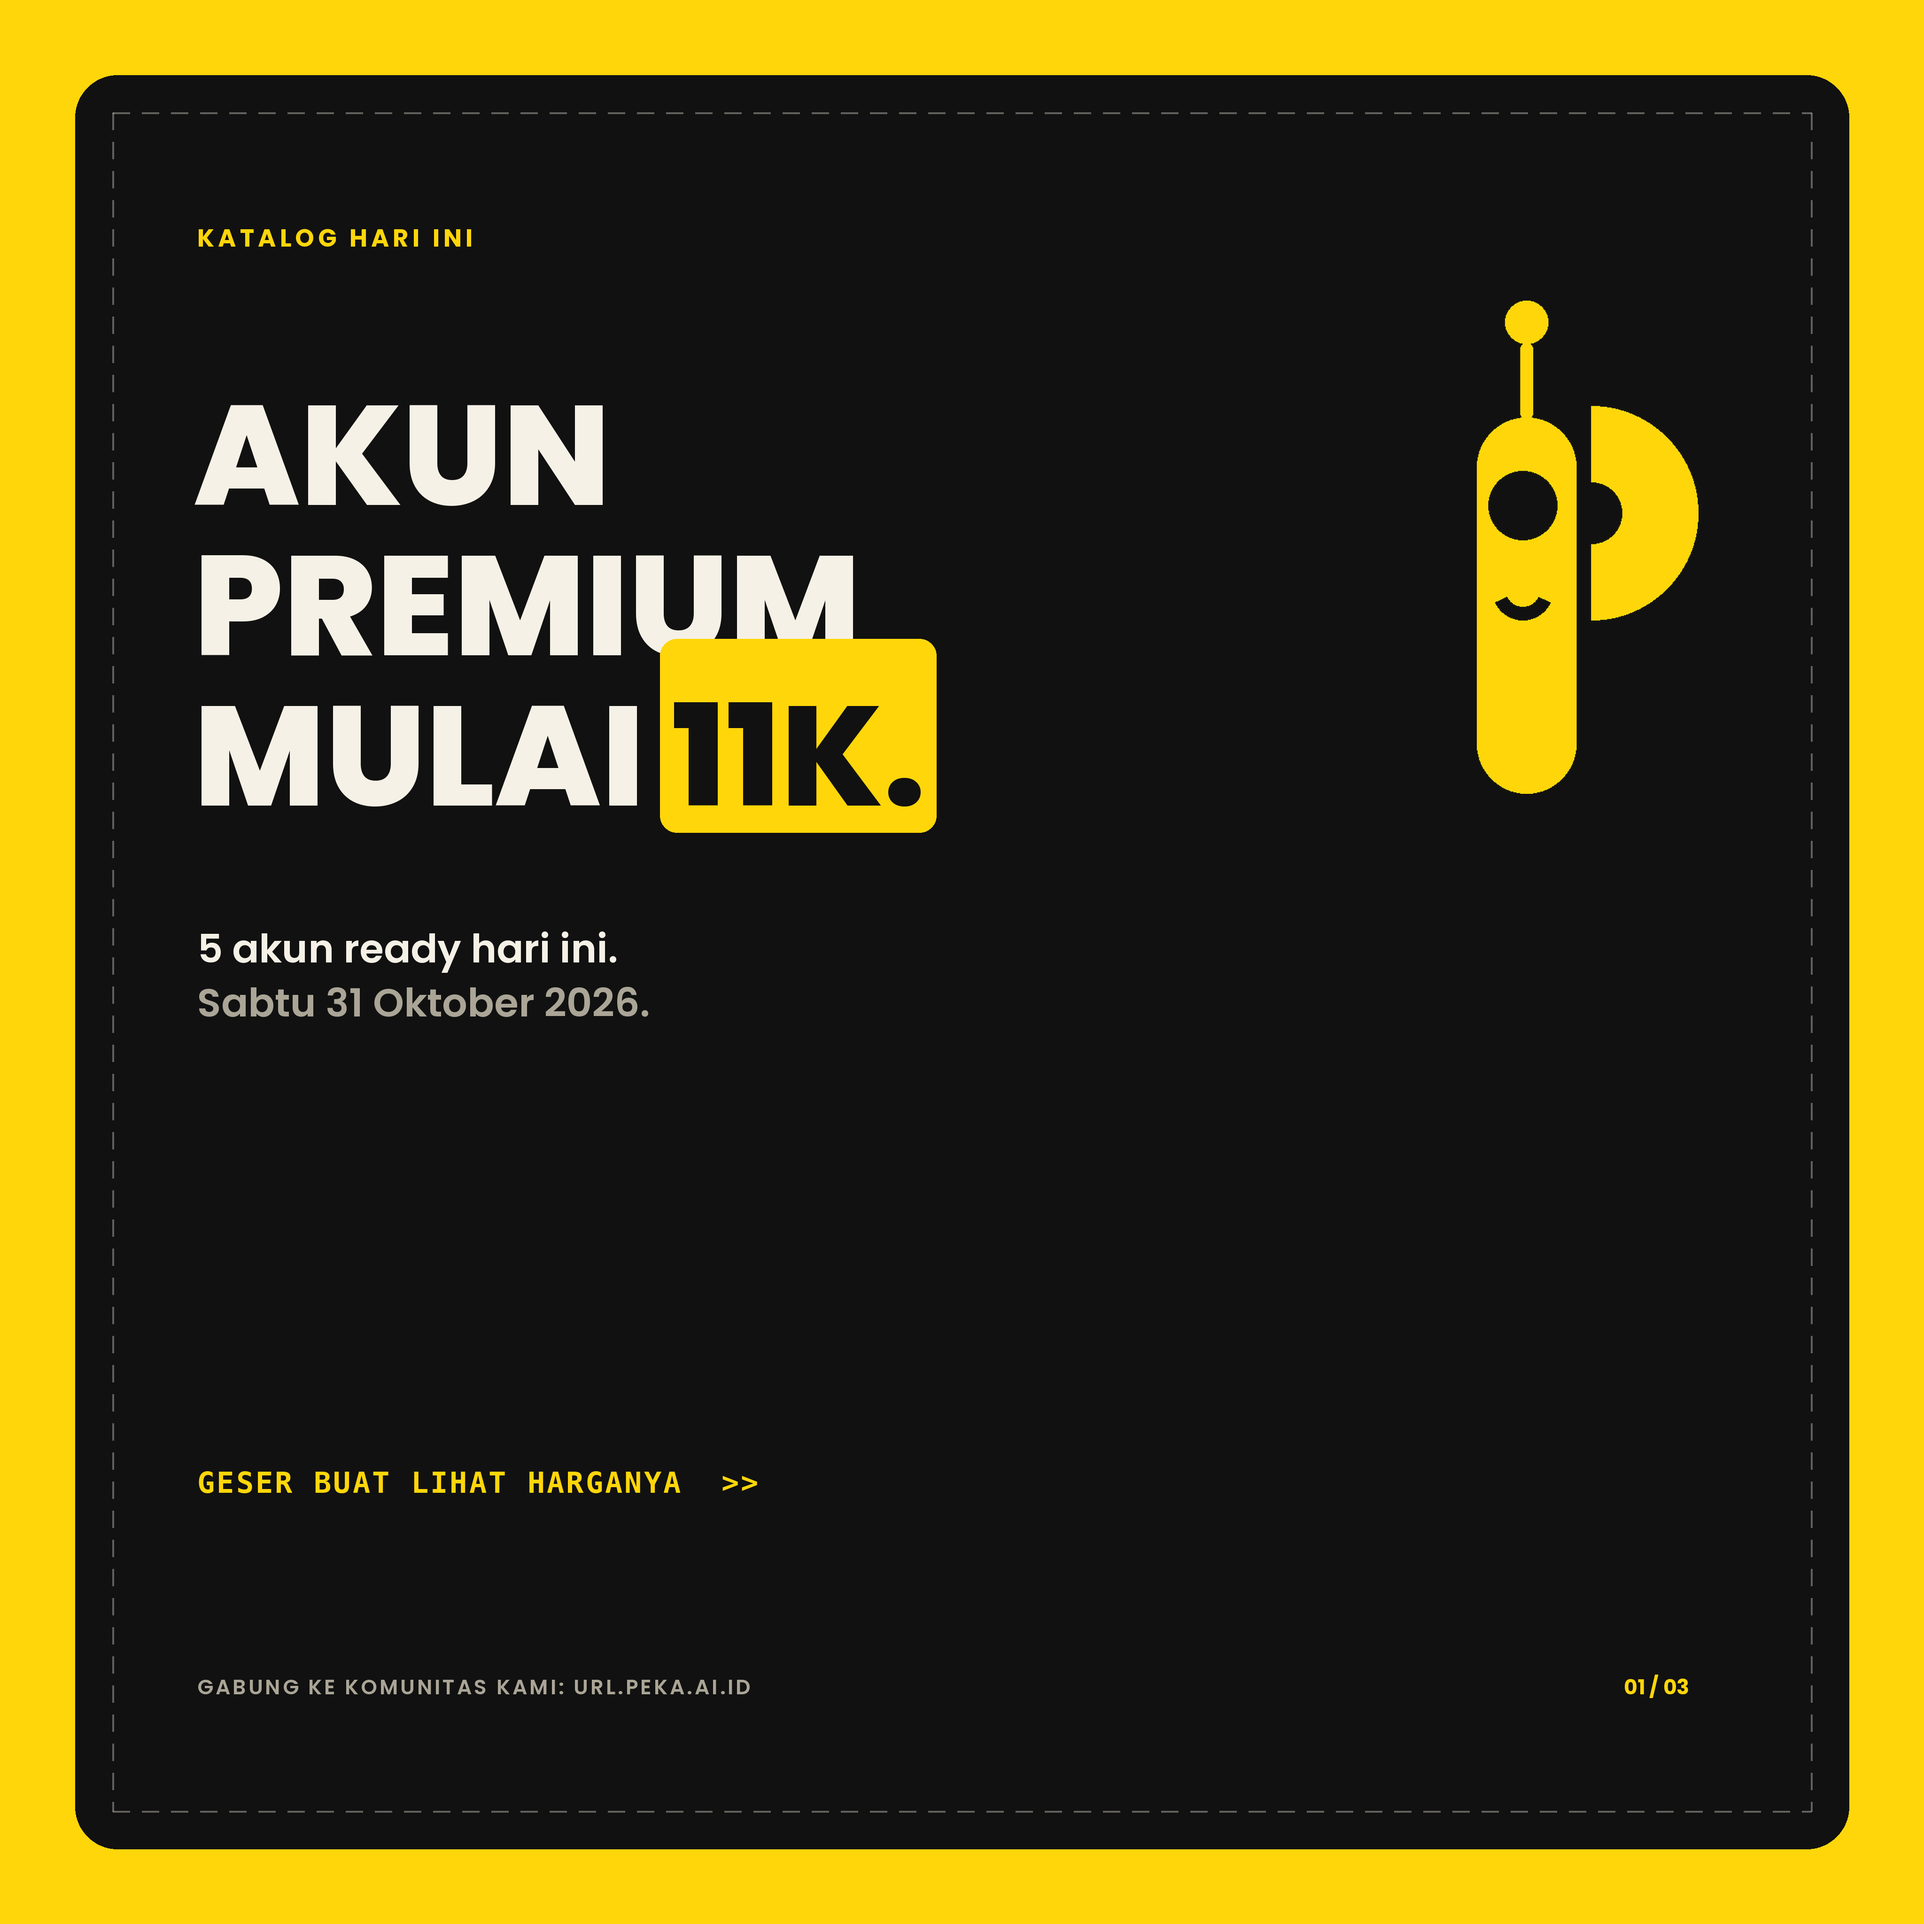
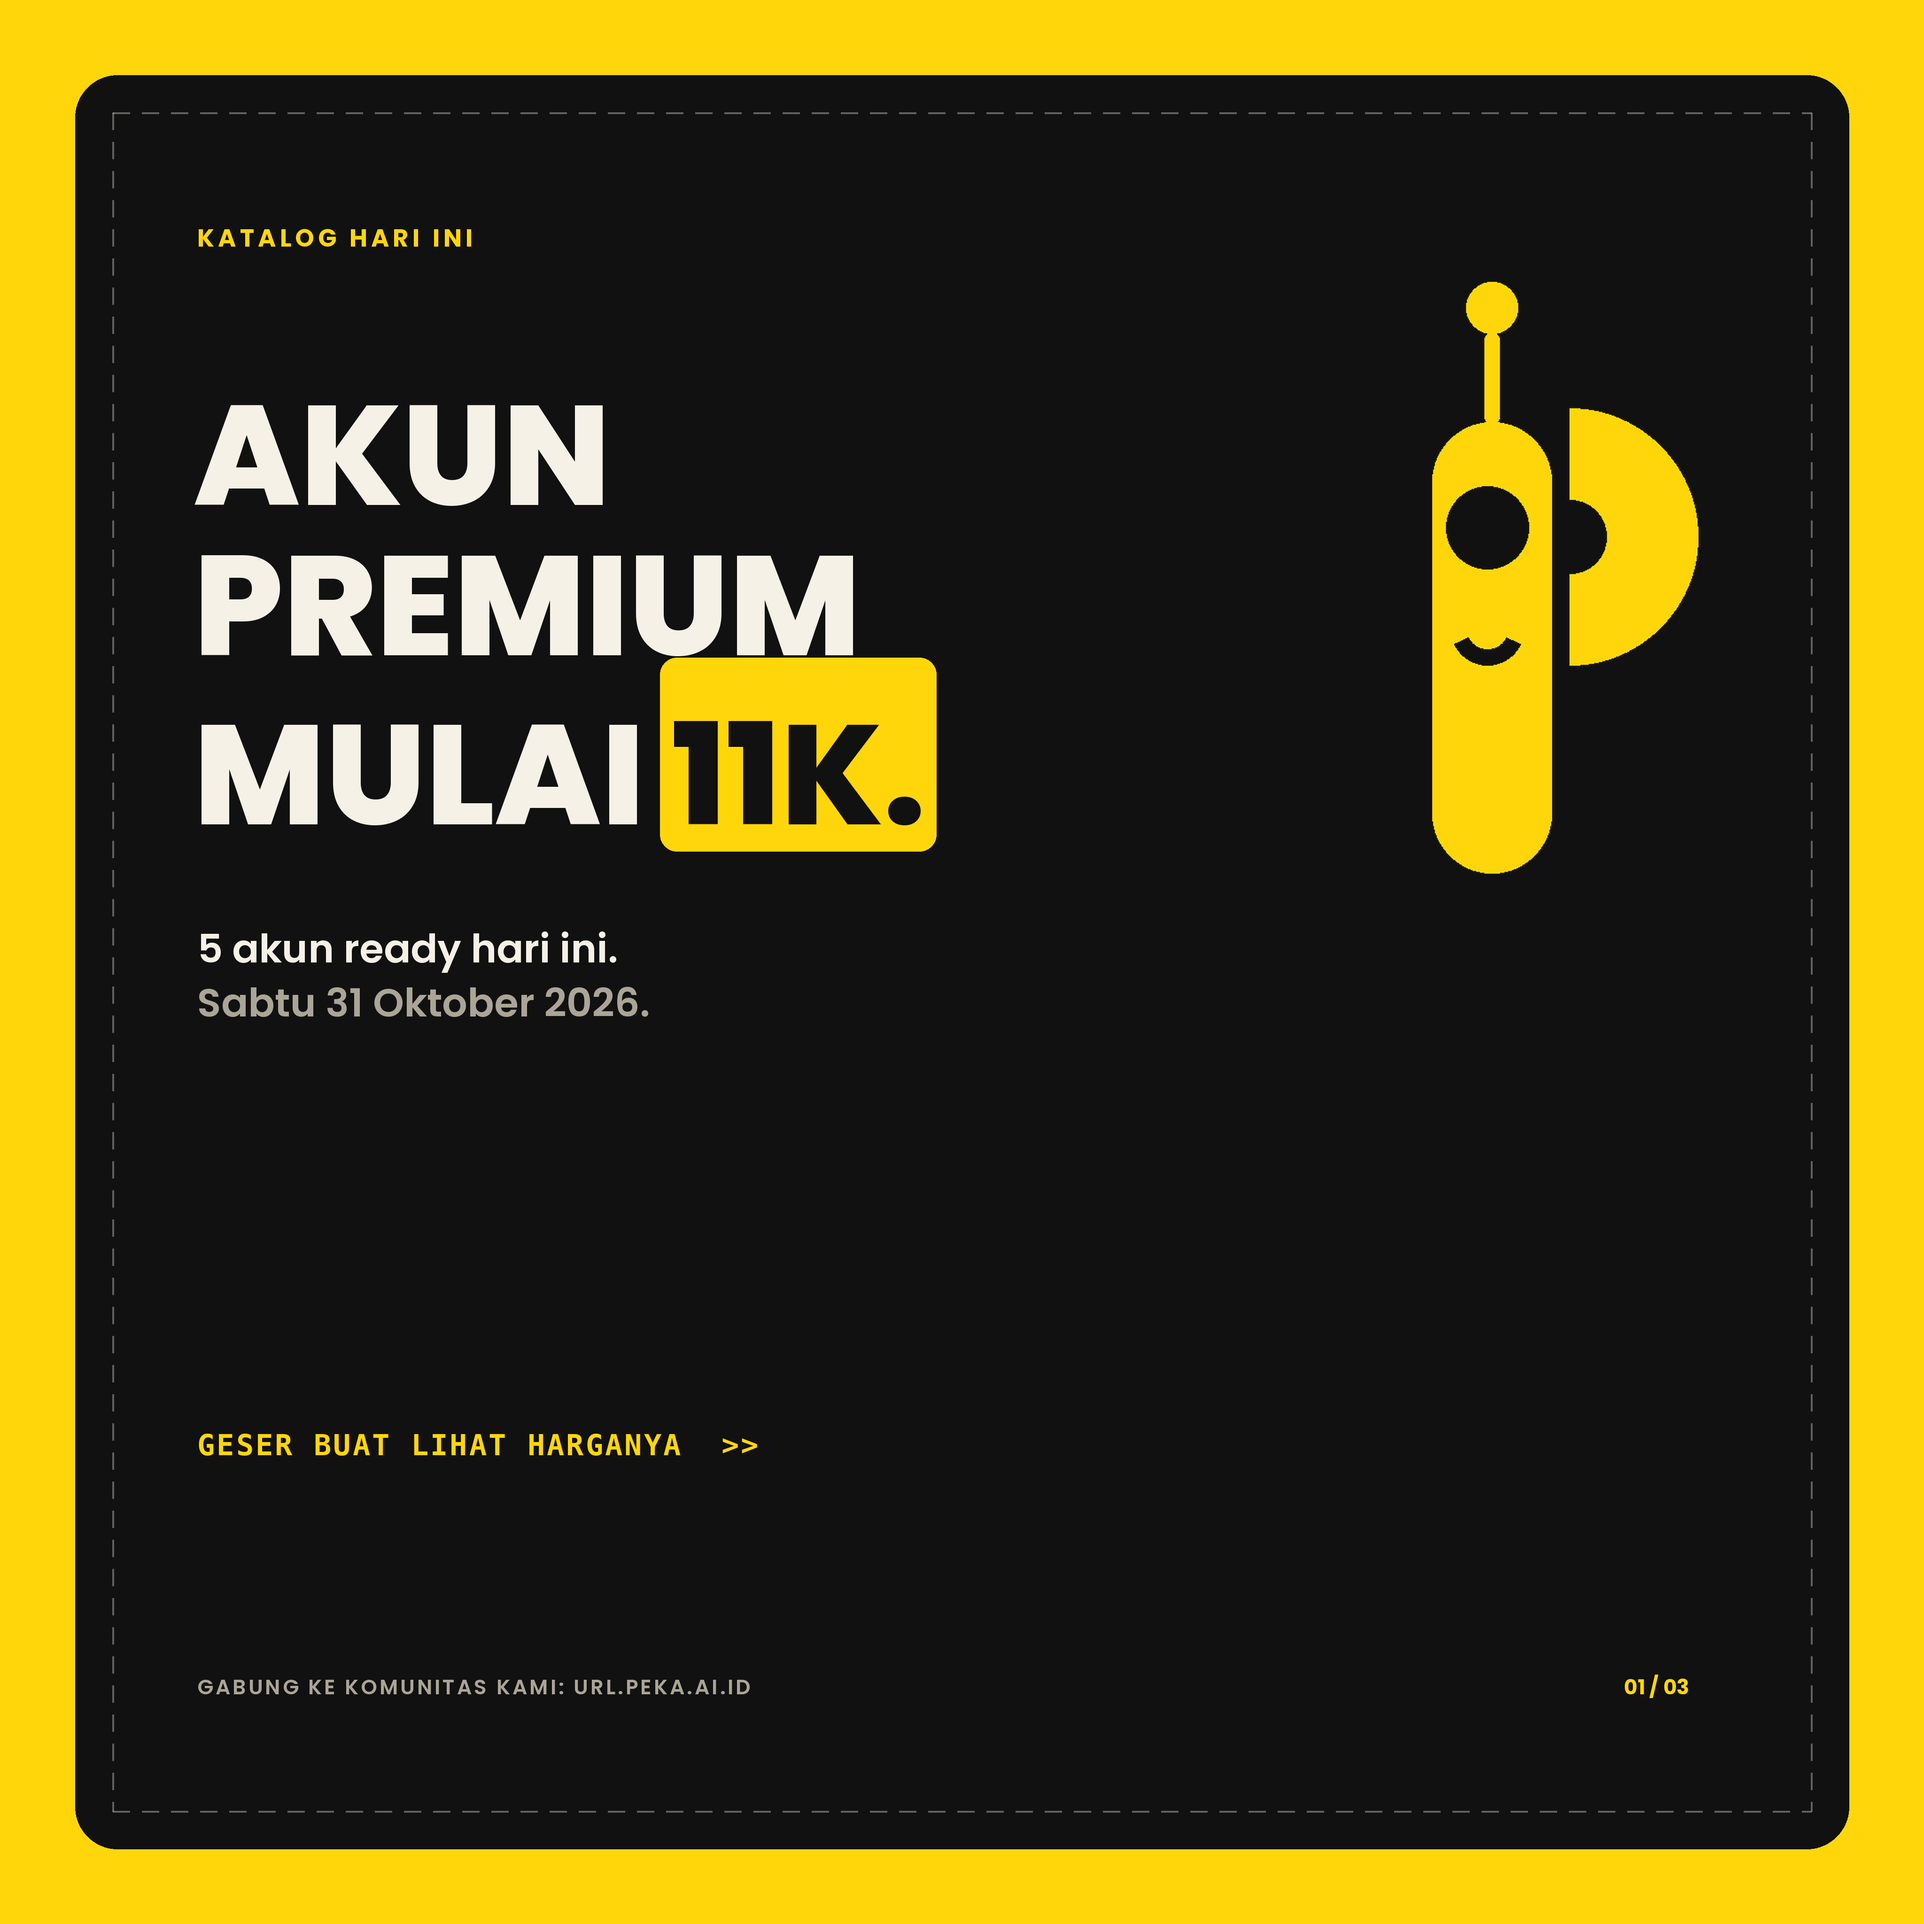
Auto sync 2026-10-30 23:37

diff --git a/katalog/2026-10-31/animated/scene.html b/katalog/2026-10-31/animated/scene.html
@@ -29,16 +29,17 @@
   .sub-mut { font-family: PoppinsSB; font-size: 42px; line-height: 1.45; color: #AAA59A; margin-top: 12px; }
   .mascot-big { display: block; height: 460px; margin: 50px auto 0 auto; }
   .geser { font-family: DejaVuMonoB; font-size: 34px; color: #FFD60A; margin-top: 56px; text-align: center; letter-spacing: 2px; }
-  .sec { font-family: PoppinsSB; font-size: 34px; color: #FFD60A; letter-spacing: 6px; margin-top: 64px; }
-  .sec.first { margin-top: 56px; }
-  .row { display: flex; align-items: baseline; margin-top: 22px; }
-  .row .nm { font-family: PoppinsSB; font-size: 52px; color: #F6F1E6; white-space: nowrap; }
+  .sec { font-family: PoppinsSB; font-size: 38px; color: #FFD60A; letter-spacing: 6px; margin-top: 96px; }
+  .sec.first { margin-top: 340px; }
+  .s3 .sec.first { margin-top: 420px; }
+  .row { display: flex; align-items: baseline; margin-top: 30px; }
+  .row .nm { font-family: PoppinsSB; font-size: 56px; color: #F6F1E6; white-space: nowrap; }
   .row .dots { flex: 1; border-bottom: 5px dotted rgba(246,241,230,0.4); margin: 0 20px; height: 20px; }
-  .row .pr { font-family: PoppinsB; font-size: 62px; color: #FFD60A; white-space: nowrap; }
-  .row-note { font-family: PoppinsSB; font-size: 36px; color: #AAA59A; margin-top: 10px; }
+  .row .pr { font-family: PoppinsB; font-size: 68px; color: #FFD60A; white-space: nowrap; }
+  .row-note { font-family: PoppinsSB; font-size: 38px; color: #AAA59A; margin-top: 10px; }
   .cta-band { background: #FFD60A; border-radius: 24px; padding: 30px 20px; text-align: center;
           font-family: PoppinsB; font-size: 40px; color: #111111; margin-top: 70px; }
-  .q { font-family: PoppinsB; font-size: 56px; line-height: 1.3; color: #F6F1E6; margin-top: 120px; }
+  .q { font-family: PoppinsB; font-size: 56px; line-height: 1.3; color: #F6F1E6; margin-top: 360px; }
   .next { font-family: DejaVu; font-size: 40px; line-height: 1.5; color: #AAA59A; margin-top: 40px; }
   .next b { color: #F6F1E6; font-family: PoppinsSB; }
   .foot { position: absolute; left: 70px; right: 70px; bottom: 52px; font-family: DejaVu;
@@ -83,7 +84,7 @@
       '<div class="geser" data-in="1.80,0.50,0,30">GESER BUAT LIHAT HARGANYA</div></div>';
     html += '<div class="scene">' + header() +
       row(ps[0], 0.3) + row(ps[1], 1.2) + row(ps[2], 2.1) + '</div>';
-    html += '<div class="scene">' + header() +
+    html += '<div class="scene s3">' + header() +
       row(ps[3], 0.3) + row(ps[4], 1.2) +
       '<div class="cta-band" data-in="2.10,0.45,0,30">MAU? CHAT: MAU [NAMA PRODUK]</div></div>';
     html += '<div class="scene">' + header() +

diff --git a/katalog/2026-10-31/katalog_slides.py b/katalog/2026-10-31/katalog_slides.py
@@ -94,7 +94,7 @@ def product_rows(d, blocks, y, gap=420):
     f_sec = ImageFont.truetype(FS, 88)
     f_item = ImageFont.truetype(FS, 124)
     f_price = ImageFont.truetype(FB, 150)
-    for sec_name, items in blocks:
+    for si, (sec_name, items) in enumerate(blocks):
         tracked(d, sec_name, f_sec, YELLOW, M, y, 10)
         y += 180
         for label, price in items:
@@ -112,7 +112,8 @@ def product_rows(d, blocks, y, gap=420):
             y += 230
             d.line([M, y, W - M, y], fill=CARD_LINE, width=3)
             y += 130
-        y += gap
+        if si < len(blocks) - 1:
+            y += gap
     return y
 
 
@@ -139,13 +140,13 @@ d.text((M - 8, 760), "AKUN", font=f_h, fill=CREAM)
 d.text((M - 8, 1080), "PREMIUM", font=f_h, fill=CREAM)
 f_h2 = ImageFont.truetype(FX, 300)
 t2 = START_LABEL
-d.text((M - 8, 1400), "MULAI ", font=f_h2, fill=CREAM)
+d.text((M - 8, 1440), "MULAI ", font=f_h2, fill=CREAM)
 w_pre = d.textlength("MULAI ", font=f_h2)
 hl_w = d.textlength(t2, font=f_h2)
-d.rounded_rectangle([M - 8 + w_pre - 24, 1400 - 40,
-                     M - 8 + w_pre + hl_w + 24, 1400 + 372],
+d.rounded_rectangle([M - 8 + w_pre - 24, 1440 - 40,
+                     M - 8 + w_pre + hl_w + 24, 1440 + 372],
                     radius=36, fill=YELLOW)
-d.text((M - 8 + w_pre, 1400), t2, font=f_h2, fill=BLACK)
+d.text((M - 8 + w_pre, 1440), t2, font=f_h2, fill=BLACK)
 
 f_sub = ImageFont.truetype(FS, 84)
 d.text((M, 1960), f"{len(PRODUCTS)} akun ready hari ini.", font=f_sub, fill=CREAM)
